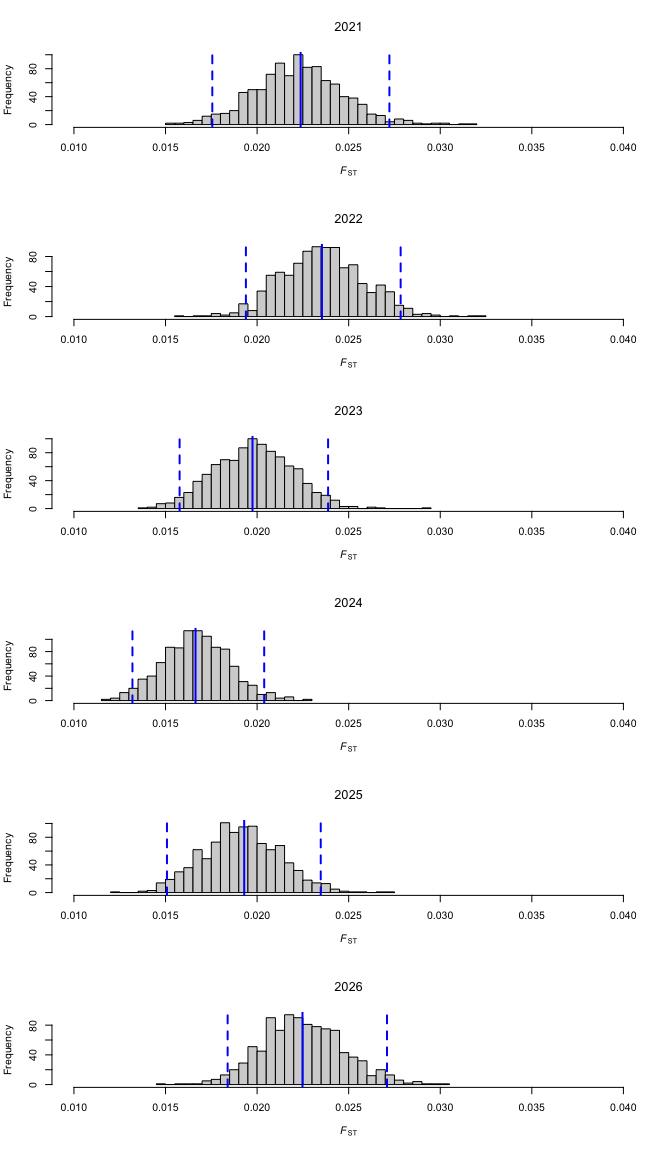
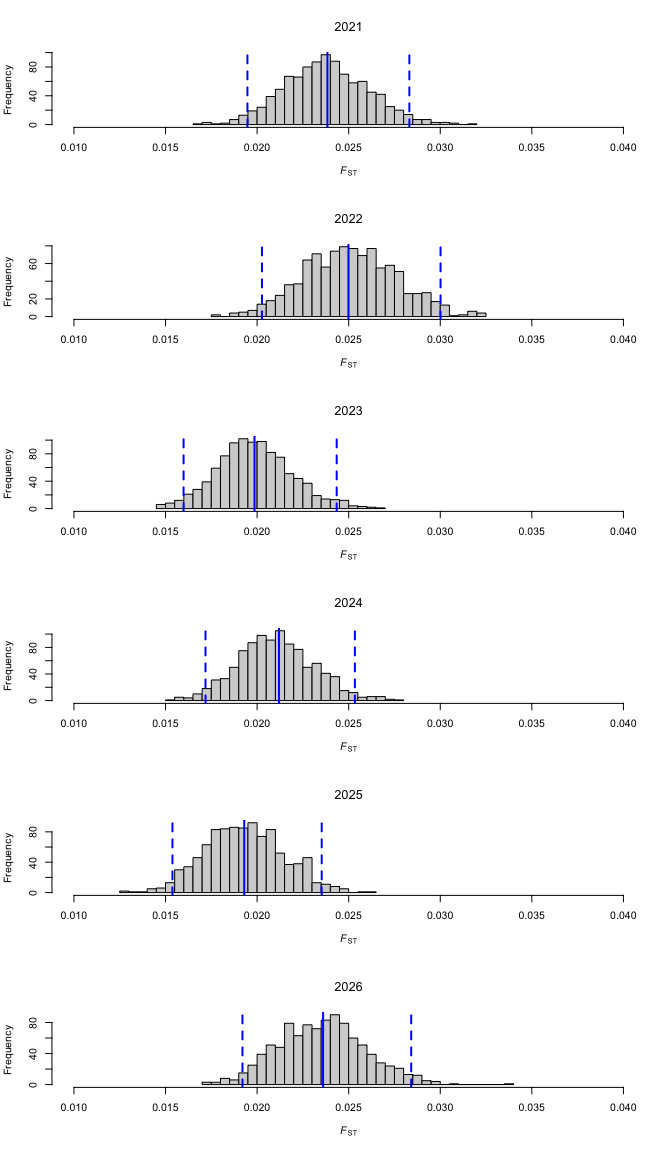
edit

diff --git a/delta-fst-white-gro.md b/delta-fst-white-gro.md
@@ -2,6 +2,14 @@
 ================
 Tyler McCraney
 
+The 1998 baseline samples were excluded. FST was estimated each year
+with a random sample of 100 NORs and 100 fall baseline fish (2008, 2010,
+and 2012). 95% CIs for FSTs were constructed by bootstrapping.
+Non-parametric statistical hypothesis tests of ∆FST were are
+non-statistically significant, indicating no hybridization w/
+introgression is occurring between White River spring run and Green
+River fall run Chinook Salmon.
+
     ## 
     ##          Green_R_Fall_98HB_Baseline Green_R_Soos_C_H_Fall_12IP_Baseline 
     ##                                  39                                  41 
